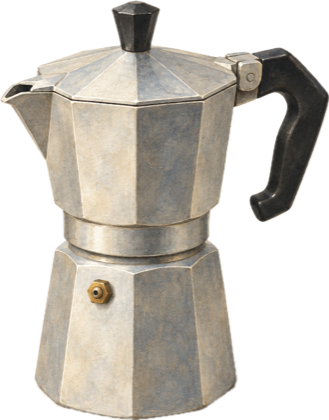
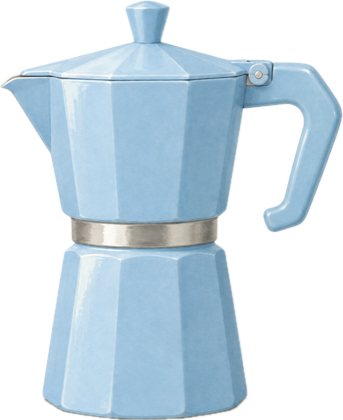
Homepage scene polish and stat consistency fixes
- Scene: blue moka pot whose lid opens with steam and a cup on hover,
  pencils that jiggle, vintage Bali/Japan/Dubai stamps that fan out,
  new lighter Pachinko cover, top 6 books of 2026, smaller photo tiles
  and circles, adjusted sizes and placement.
- Klub and Spottabl: note that "today" figures are company figures.
- Challans: launch line includes the Rs 2,36,697 settled figure.
- Wells Fargo row marked as shipped and measured.

diff --git a/src/pages/Home.tsx b/src/pages/Home.tsx
@@ -22,8 +22,8 @@ const allWork: WorkRowData[] = [
     owned: 'Owned the financial health surfaces end to end, not the scoring behind them.',
     platform: 'Web · Enterprise',
     domain: 'Fintech',
-    outcome: 'A redesign approved and queued for release',
-    evidence: 'Approved',
+    outcome: 'Section usage up 1.2% after launch',
+    evidence: 'Shipped · measured',
     to: '/work/wells-fargo-financial-health',
     thumb: { src: '/assets/thumbs/wf-financial-health.jpg', kind: 'web', tint: ['#F7E6E1', '#EFD3CA'] },
     tags: ['Complex data'],
@@ -111,18 +111,108 @@ const BAKE_PHOTOS = [
   { src: '/assets/bake-muffins.jpg', alt: 'Strawberry cream cheese muffins with fresh strawberries' },
 ];
 
-// Books: a small stack of 2026 reads; the full list opens on hover or tap.
+// Travel: two vintage-style postage stamps from trips, tucked above the bowl.
+const STAMPS = [
+  { place: 'Bali', src: '/assets/scene/stamp-bali.png', cls: 'otc-stamp-a' },
+  { place: 'Japan', src: '/assets/scene/stamp-japan.png', cls: 'otc-stamp-b' },
+  { place: 'Dubai', src: '/assets/scene/stamp-dubai.png', cls: 'otc-stamp-c' },
+];
+
+function TravelStamps() {
+  return (
+    <div className="otc-stamps" aria-label="Travel stamps from Bali, Japan and Dubai" role="img">
+      {STAMPS.map((t) => (
+        <img key={t.place} className={`otc-stamp ${t.cls}`} src={t.src} alt="" />
+      ))}
+    </div>
+  );
+}
+
+// Design tools: app tiles fan out of the pencil cup on hover or tap, like the photo tiles.
+const TOOL_TILES = [
+  {
+    name: 'Figma',
+    icon: (
+      <svg viewBox="0 0 38 57" width="20" height="30" aria-hidden="true">
+        <path d="M19 28.5a9.5 9.5 0 1 1 19 0 9.5 9.5 0 0 1-19 0z" fill="#1ABCFE" />
+        <path d="M0 47.5A9.5 9.5 0 0 1 9.5 38H19v9.5a9.5 9.5 0 1 1-19 0z" fill="#0ACF83" />
+        <path d="M19 0v19h9.5a9.5 9.5 0 1 0 0-19H19z" fill="#FF7262" />
+        <path d="M0 9.5A9.5 9.5 0 0 0 9.5 19H19V0H9.5A9.5 9.5 0 0 0 0 9.5z" fill="#F24E1E" />
+        <path d="M0 28.5A9.5 9.5 0 0 0 9.5 38H19V19H9.5A9.5 9.5 0 0 0 0 28.5z" fill="#A259FF" />
+      </svg>
+    ),
+  },
+  {
+    name: 'Claude',
+    icon: (
+      <svg viewBox="-12 -12 24 24" width="30" height="30" aria-hidden="true">
+        {Array.from({ length: 12 }, (_, i) => (
+          <line key={i} x1="0" y1="0" x2="0" y2={i % 2 ? -8.5 : -10.5} stroke="#D97757" strokeWidth="2.4" strokeLinecap="round" transform={`rotate(${i * 30})`} />
+        ))}
+      </svg>
+    ),
+  },
+  {
+    name: 'Notion',
+    icon: (
+      <svg viewBox="0 0 28 28" width="28" height="28" aria-hidden="true">
+        <rect x="2" y="2" width="24" height="24" rx="4" fill="#FFFFFF" stroke="#171A18" strokeWidth="2" />
+        <text x="14" y="20.5" textAnchor="middle" fontFamily="Georgia, serif" fontWeight="700" fontSize="16" fill="#171A18">N</text>
+      </svg>
+    ),
+  },
+];
+
+function DesignTools() {
+  const [open, setOpen] = useState(false);
+  return (
+    <button
+      type="button"
+      className={`otc-toolsbtn${open ? ' is-open' : ''}`}
+      aria-expanded={open}
+      aria-label={`Design tools I use: ${TOOL_TILES.map((t) => t.name).join(', ')}`}
+      onClick={() => setOpen((o) => !o)}
+      onBlur={() => setOpen(false)}
+    >
+      <span className="tool-tiles" aria-hidden="true">
+        {TOOL_TILES.map((t) => (
+          <span key={t.name} className="tool-tile">
+            <span className="tool-tile-icon">{t.icon}</span>
+            <span className="tool-tile-name">{t.name}</span>
+          </span>
+        ))}
+      </span>
+      <span className="otc-obj tools-art">
+        <img className="tools-base" src="/assets/scene/tools.png" alt="" />
+        <img className="tools-pencils" src="/assets/scene/tools.png" alt="" />
+      </span>
+    </button>
+  );
+}
+
+// Moka pot: on hover the lid flips open, steam rises and a cup slides in beside it.
+function MokaPot() {
+  return (
+    <span className="otc-mokabox" aria-hidden="true">
+      <img className="otc-cup" src="/assets/scene/cup.png" alt="" />
+      <span className="otc-obj otc-moka">
+        <img className="moka-base" src="/assets/scene/moka.png" alt="" />
+        <span className="moka-mouth" />
+        <img className="moka-lid" src="/assets/scene/moka.png" alt="" />
+        <span className="moka-steam"><i /><i /><i /></span>
+      </span>
+    </span>
+  );
+}
+
+// Books: a small stack of 2026 reads; the top six open on hover or tap.
 const BOOKS_ALL = [
   'Pachinko',
   'Butter',
   'The Kamogawa Food Detectives',
   'The Silent Patient',
-  'Verity',
-  'The Crooked House',
   'The Dust Child',
   'Then She Was Gone',
-  'The Only One Left',
-  'The September Child',
 ];
 
 function BookStack() {
@@ -141,7 +231,7 @@ function BookStack() {
         <img className="otc-book otc-book-pachinko" src="/assets/scene/pachinko.png" alt="" />
       </span>
       <span className="otc-shelf" aria-hidden="true">
-        <span className="otc-shelf-title">Read in 2026</span>
+        <span className="otc-shelf-title">Top 6 of 2026 so far</span>
         {BOOKS_ALL.map((t) => (
           <span key={t} className="otc-shelf-item">{t}</span>
         ))}
@@ -157,6 +247,9 @@ function IllustrationCard() {
       className="illo-card"
       style={{
         minWidth: 0,
+        width: '100%',
+        maxWidth: 400,
+        justifySelf: 'end',
         position: 'relative',
         zIndex: 2,
       }}
@@ -167,10 +260,12 @@ function IllustrationCard() {
       <div className="otc-stage">
         {/* Layout traced from the Figma scene: every position is a % of the stage, so it scales as one piece. */}
         <span className="otc-moon" aria-hidden="true" />
+        <span className="otc-moon otc-moon-lilac" aria-hidden="true" />
         <img className="otc-pill" src="/assets/khubi-pill.jpg" alt="Khubi in a cap, smiling, by the lake with Mount Fuji and cherry blossoms behind" />
         <BookStack />
-        <img className="otc-obj otc-moka" src="/assets/scene/moka.png" alt="" aria-hidden="true" />
-        <img className="otc-obj otc-tools" src="/assets/scene/tools.png" alt="" aria-hidden="true" />
+        <MokaPot />
+        <DesignTools />
+        <TravelStamps />
         <a
           className="bake-link otc-bake"
           href="https://www.instagram.com/pixiedust.bakery/"
@@ -190,7 +285,7 @@ function IllustrationCard() {
             style={{
               position: 'absolute',
               left: 10,
-              top: 'calc(100% + 104px)',
+              top: 'calc(100% + 84px)',
               zIndex: 4,
               width: 190,
               padding: '10px 12px',
@@ -244,23 +339,99 @@ function IllustrationCard() {
       <style>{`
         .otc-stage { position: relative; aspect-ratio: 3963 / 4718; margin-top: 14px; }
         /* Striped circle tucked behind the photo so only a crescent shows past its top-left edge. */
+        /* Striped circles tucked behind the photo so only a crescent shows: red top-left, lilac bottom-right. */
         .otc-moon {
-          position: absolute; left: 5.5%; top: -4.5%; width: 73.15%; aspect-ratio: 1; border-radius: 50%; z-index: 0;
-          background-image: repeating-linear-gradient(58deg, rgba(190,66,41,0.55) 0 7px, rgba(190,66,41,0) 7px 17px);
+          position: absolute; left: 4%; top: -3%; width: 46%; aspect-ratio: 1; border-radius: 50%; z-index: 0;
+          background-image: repeating-linear-gradient(58deg, rgba(190,66,41,0.55) 0 6px, rgba(190,66,41,0) 6px 15px);
+        }
+        .otc-moon-lilac {
+          left: auto; top: auto; right: 4%; bottom: -3%;
+          background-image: repeating-linear-gradient(58deg, rgba(139,108,207,0.6) 0 6px, rgba(139,108,207,0) 6px 15px);
         }
         .otc-pill { position: absolute; left: 13.93%; top: 0; width: 73.15%; height: 100%; object-fit: cover; border-radius: 9999px; z-index: 1; display: block; }
         .otc-obj { position: absolute; display: block; height: auto; filter: drop-shadow(0 10px 12px rgba(23,26,24,0.16)); transition: transform 300ms cubic-bezier(.2,.8,.2,1); }
         .otc-garden { position: absolute; left: 77.54%; top: 35.44%; width: 17.84%; z-index: 2; }
-        .otc-books { position: absolute; left: 51%; top: 1.36%; width: 24.47%; height: 18.9%; z-index: 3; margin: 0; padding: 0; border: 0; background: none; cursor: pointer; text-align: left; }
-        .otc-bake { position: absolute; left: 12.52%; top: 79.86%; width: 21.25%; z-index: 4; }
-        .otc-moka { left: 4.52%; top: 17.51%; width: 17.84%; z-index: 5; }
-        .otc-tools { left: 75.65%; top: 71.2%; width: 19.56%; z-index: 6; }
+        .otc-books { position: absolute; left: 56%; top: -5.5%; width: 24.47%; height: 18.9%; z-index: 3; margin: 0; padding: 0; border: 0; background: none; cursor: pointer; text-align: left; }
+        .otc-bake { position: absolute; left: 21%; top: 84.5%; width: 21.25%; z-index: 4; }
+        .otc-mokabox { position: absolute; left: 4.52%; top: 13.5%; width: 17.84%; z-index: 5; display: block; }
+        .otc-mokabox .otc-moka { position: relative; width: 100%; transform: scaleX(-1); }
+        .otc-moka img, .tools-art img { display: block; width: 100%; height: auto; }
+        /* The lid is the same picture clipped to its top, hinged by the handle. */
+        .moka-base { clip-path: polygon(0 0, 10% 0, 10% 20%, 71% 20%, 71% 0, 100% 0, 100% 100%, 0 100%); }
+        .moka-lid { position: absolute; inset: 0; clip-path: polygon(10% 0, 71% 0, 71% 20%, 10% 20%); transform-origin: 74% 17%; transition: transform 480ms cubic-bezier(.3,1.4,.5,1); }
+        .moka-mouth { position: absolute; left: 14%; top: 17%; width: 54%; height: 6%; border-radius: 50%; background: #2B2420; opacity: 0; transition: opacity 200ms ease; }
+        .otc-mokabox:hover .moka-lid { transform: translateY(-6%) rotate(70deg); }
+        .otc-mokabox:hover .moka-mouth { opacity: 1; }
+        .moka-steam { position: absolute; left: 24%; top: -14%; width: 40%; height: 32%; pointer-events: none; }
+        .moka-steam i {
+          position: absolute; bottom: 0; width: 22%; height: 80%; border-radius: 50%;
+          border-left: 2px solid rgba(110,100,92,0.5); filter: blur(0.5px); opacity: 0;
+        }
+        .moka-steam i:nth-child(1) { left: 10%; }
+        .moka-steam i:nth-child(2) { left: 40%; height: 100%; }
+        .moka-steam i:nth-child(3) { left: 70%; }
+        .otc-mokabox:hover .moka-steam i { animation: moka-steam 1.8s ease-out 320ms infinite; }
+        .otc-mokabox:hover .moka-steam i:nth-child(2) { animation-delay: 700ms; }
+        .otc-mokabox:hover .moka-steam i:nth-child(3) { animation-delay: 1050ms; }
+        @keyframes moka-steam {
+          0% { opacity: 0; transform: translateY(20%) scaleY(0.6); }
+          30% { opacity: 1; }
+          100% { opacity: 0; transform: translate(8%, -55%) scaleY(1.1); }
+        }
+        .otc-cup { position: absolute; left: 72%; top: 64%; width: 62%; opacity: 0; transform: translateX(40%) rotate(8deg); transition: opacity 220ms ease, transform 360ms cubic-bezier(.2,.8,.2,1); filter: drop-shadow(0 8px 10px rgba(23,26,24,0.18)); z-index: 1; }
+        .otc-mokabox:hover .otc-cup { opacity: 1; transform: none; }
+        .otc-toolsbtn { position: absolute; left: 75.65%; top: 71.2%; width: 19.56%; z-index: 6; margin: 0; padding: 0; border: 0; background: none; cursor: pointer; }
+        .otc-toolsbtn .otc-obj { position: relative; width: 100%; }
+        /* Pencils are the same picture clipped to what sticks out of the cup, so they can jiggle. */
+        .tools-base { clip-path: polygon(52% 0, 100% 0, 100% 100%, 0 100%, 0 40%, 41% 40%, 41% 23%, 52% 23%); }
+        .tools-pencils { position: absolute; inset: 0; clip-path: polygon(0 0, 52% 0, 52% 23%, 41% 23%, 41% 40%, 0 40%); transform-origin: 26% 42%; }
+        .otc-toolsbtn:hover .tools-art, .otc-toolsbtn:focus-visible .tools-art { transform: translateY(-4px) rotate(-2deg); }
+        .otc-toolsbtn:hover .tools-pencils, .otc-toolsbtn:focus-visible .tools-pencils { animation: pencil-jiggle 700ms ease-in-out; }
+        @keyframes pencil-jiggle {
+          0%, 100% { transform: none; }
+          25% { transform: rotate(-5deg); }
+          50% { transform: rotate(4deg); }
+          75% { transform: rotate(-2deg); }
+        }
+        .tool-tiles { position: absolute; right: 10%; bottom: calc(100% + 4px); display: flex; pointer-events: none; }
+        .tool-tile {
+          display: flex; flex-direction: column; align-items: center; justify-content: center; gap: 4px;
+          width: 58px; height: 64px; background: #FFFFFF; border-radius: 12px;
+          box-shadow: 0 14px 22px -14px rgba(23,26,24,0.5), 0 0 0 1px rgba(23,26,24,0.06);
+          opacity: 0; transform: translateY(8px); transition: opacity 200ms ease, transform 280ms cubic-bezier(.2,.8,.2,1);
+        }
+        .tool-tile + .tool-tile { margin-left: -10px; }
+        .tool-tile-icon { display: flex; height: 30px; align-items: center; }
+        .tool-tile-name { font-family: var(--font-mono); font-size: 8.5px; letter-spacing: 0.06em; color: var(--secondary); }
+        .otc-toolsbtn:hover .tool-tile, .otc-toolsbtn:focus-visible .tool-tile, .otc-toolsbtn.is-open .tool-tile { opacity: 1; }
+        .otc-toolsbtn:hover .tool-tile:nth-child(1), .otc-toolsbtn:focus-visible .tool-tile:nth-child(1), .otc-toolsbtn.is-open .tool-tile:nth-child(1) { transform: translateY(4px) rotate(-9deg); }
+        .otc-toolsbtn:hover .tool-tile:nth-child(2), .otc-toolsbtn:focus-visible .tool-tile:nth-child(2), .otc-toolsbtn.is-open .tool-tile:nth-child(2) { transform: translateY(-6px) rotate(-2deg); transition-delay: 40ms; }
+        .otc-toolsbtn:hover .tool-tile:nth-child(3), .otc-toolsbtn:focus-visible .tool-tile:nth-child(3), .otc-toolsbtn.is-open .tool-tile:nth-child(3) { transform: translateY(2px) rotate(8deg); transition-delay: 80ms; }
+        .otc-toolsbtn:hover, .otc-toolsbtn:focus-visible, .otc-toolsbtn.is-open, .otc-mokabox:hover { z-index: 10; }
+        .otc-stamps { position: absolute; left: -1%; top: 50%; width: 36%; aspect-ratio: 1.4; z-index: 3; cursor: default; }
+        .otc-stamps:hover { z-index: 10; }
+        .otc-stamp {
+          position: absolute; width: 32%; height: auto; display: block;
+          filter: drop-shadow(0 6px 8px rgba(23,26,24,0.18));
+          transition: transform 320ms cubic-bezier(.2,.8,.2,1), filter 320ms ease;
+        }
+        .otc-stamp-a { left: 10%; top: 26%; transform: rotate(-8deg); }
+        .otc-stamp-b { left: 32%; top: 10%; transform: rotate(2deg); z-index: 2; }
+        .otc-stamp-c { left: 54%; top: 26%; transform: rotate(9deg); }
+        /* Hover: the stamps lift and fan apart, like peeling them off a postcard. */
+        .otc-stamps:hover .otc-stamp { filter: drop-shadow(0 14px 14px rgba(23,26,24,0.22)); }
+        .otc-stamps:hover .otc-stamp-a { transform: translate(-16%, -4%) rotate(-15deg) scale(1.06); }
+        .otc-stamps:hover .otc-stamp-b { transform: translateY(-14%) rotate(0deg) scale(1.08); }
+        .otc-stamps:hover .otc-stamp-c { transform: translate(16%, -4%) rotate(15deg) scale(1.06); }
+        /* Objects drawn 15% larger than traced, each growing from its own centre so the layout holds. */
+        .otc-mokabox, .otc-books, .otc-bake { scale: 1.15; }
+        .otc-toolsbtn, .otc-garden { scale: 1.3; }
+        .tool-tiles { scale: 0.77; transform-origin: bottom right; }
+        .otc-shelf { scale: 0.87; transform-origin: top right; }
         .otc-bake .bake-whisk, .otc-garden .garden-plant { position: static; width: 100%; }
-        .otc-moka:hover { transform: rotate(-4deg) translateY(-4px); }
-        .otc-tools:hover { transform: rotate(3deg) translateY(-4px); }
         .otc-book-pile { position: absolute; inset: 0; display: block; }
         .otc-book { position: absolute; top: 0; display: block; height: auto; filter: drop-shadow(0 10px 12px rgba(23,26,24,0.18)); transition: transform 300ms cubic-bezier(.2,.8,.2,1); }
-        .otc-book-pachinko { left: 0; width: 55.3%; }
+        .otc-book-pachinko { left: -4%; width: 60%; }
         .otc-book-silent { left: 19.6%; width: 80.4%; top: 1.6%; }
         .otc-books:hover .otc-book-pachinko, .otc-books.is-open .otc-book-pachinko { transform: rotate(-4deg) translateY(-6px); }
         .otc-books:hover .otc-book-silent, .otc-books.is-open .otc-book-silent { transform: rotate(4deg) translateX(6px); }
@@ -280,7 +451,7 @@ function IllustrationCard() {
           color: var(--muted); margin-bottom: 4px;
         }
         .otc-shelf-item { font-family: var(--font-serif); font-size: 14px; line-height: 1.35; color: var(--ink); }
-        @media (prefers-reduced-motion: reduce) { .otc-book, .otc-shelf, .otc-obj { transition: none; } }
+        @media (prefers-reduced-motion: reduce) { .otc-book, .otc-shelf, .otc-obj, .tool-tile, .otc-cup, .otc-stamp, .moka-lid { transition: none !important; } .moka-steam i, .tools-pencils { animation: none !important; } }
         .bake-whisk { transform-origin: 50% 85%; transition: transform 300ms ease; }
         .bake-caption { display: grid; }
         .bake-cap, .bake-handle { grid-area: 1 / 1; transition: opacity 200ms ease, transform 200ms ease; }
@@ -309,12 +480,12 @@ function IllustrationCard() {
         @keyframes garden-dig { from { transform: rotate(-10deg); } to { transform: rotate(8deg) translateY(-3px); } }
         .garden-photos { position: absolute; right: -6px; top: calc(100% + 12px); z-index: 3; display: flex; pointer-events: none; }
         .polaroid {
-          display: block; box-sizing: content-box; width: 84px; height: 84px; object-fit: cover;
-          padding: 5px 5px 16px; background: #FFFFFF; border-radius: 2px;
+          display: block; box-sizing: content-box; width: 64px; height: 64px; object-fit: cover;
+          padding: 4px 4px 12px; background: #FFFFFF; border-radius: 2px;
           box-shadow: 0 14px 22px -14px rgba(23,26,24,0.5), 0 0 0 1px rgba(23,26,24,0.06);
           opacity: 0; transform: translateY(-8px); transition: opacity 200ms ease, transform 280ms cubic-bezier(.2,.8,.2,1);
         }
-        .polaroid + .polaroid { margin-left: -24px; }
+        .polaroid + .polaroid { margin-left: -18px; }
         .bake-photos { position: absolute; left: -6px; top: calc(100% + 12px); z-index: 3; display: flex; pointer-events: none; }
         .bake-link:hover .bake-photo, .bake-link:focus-visible .bake-photo { opacity: 1; }
         .bake-link:hover .bake-photo:nth-child(1), .bake-link:focus-visible .bake-photo:nth-child(1) { transform: translateY(4px) rotate(-10deg); }
@@ -495,7 +666,7 @@ export default function Home() {
             display: 'grid',
             gridTemplateColumns: 'minmax(0, 1.15fr) minmax(300px, 0.85fr)',
             gap: '48px 64px',
-            alignItems: 'start',
+            alignItems: 'center',
           }}
         >
           <div style={{ minWidth: 0 }}>

diff --git a/src/components/CaseStudyParts.tsx b/src/components/CaseStudyParts.tsx
@@ -23,7 +23,7 @@ export type HeadStat = { value: string; label: string };
 export type HeadFact = { label: string; value: string };
 
 /** Stats row plus the Role / Team / Timeline / Platform strip, full width under the headline. */
-export function HeaderStatsAndFacts({ stats, facts }: { stats: HeadStat[]; facts: HeadFact[] }) {
+export function HeaderStatsAndFacts({ stats, facts, note }: { stats: HeadStat[]; facts: HeadFact[]; note?: string }) {
   return (
     <div style={{ marginTop: 48 }}>
       <div className="cs-head-grid">
@@ -34,6 +34,9 @@ export function HeaderStatsAndFacts({ stats, facts }: { stats: HeadStat[]; facts
           </div>
         ))}
       </div>
+      {note && (
+        <div style={{ fontFamily: 'var(--font-ui)', fontSize: 13, fontWeight: 600, letterSpacing: '0.05em', color: 'var(--muted)', marginTop: 16 }}>{note}</div>
+      )}
       <dl className="cs-head-grid" style={{ margin: '40px 0 0 0', padding: '18px 0', borderTop: '1px solid var(--hairline)', borderBottom: '1px solid var(--hairline)' }}>
         {facts.map((m) => (
           <div key={m.label}>

diff --git a/src/case-studies/Klub.tsx b/src/case-studies/Klub.tsx
@@ -307,7 +307,7 @@ export default function Klub() {
       summary="Klub's syndicates were already happening, entirely offline. I brought them into the existing patrons app without unsettling the patrons already using it."
       meta={[]}
       headerAside={<HeaderDevice src="/assets/thumbs/klub.jpg" kind="web" alt="The Syndicates discovery page" />}
-      headerFooter={<HeaderStatsAndFacts stats={headStats} facts={headFacts} />}
+      headerFooter={<HeaderStatsAndFacts stats={headStats} facts={headFacts} note="“Today” figures are company figures, not results of this project." />}
       hero={<OverviewSummary items={summaryItems} context={contextFacts} />}
       overview={{ id: "kl-overview", number: '01', title: 'Overview' }}
       railExtra={<RailStats stats={headStats} />}

diff --git a/src/case-studies/Spottabl.tsx b/src/case-studies/Spottabl.tsx
@@ -336,7 +336,7 @@ export default function Spottabl() {
       summary="Spottabl connects startups that are hiring with specialist recruiters. I designed one pipeline that the company, the recruiter and the candidate all read."
       meta={[]}
       headerAside={<HeaderDevice src="/assets/thumbs/spottabl.jpg" kind="web" alt="The My jobs screen" />}
-      headerFooter={<HeaderStatsAndFacts stats={headStats} facts={headFacts} />}
+      headerFooter={<HeaderStatsAndFacts stats={headStats} facts={headFacts} note="“Today” figures are company figures, not results of this project." />}
       hero={<OverviewSummary items={summaryItems} context={contextFacts} />}
       overview={{ id: "sp-overview", number: '01', title: 'Overview' }}
       railExtra={<RailStats stats={headStats} />}

diff --git a/src/case-studies/Cars24Challans.tsx b/src/case-studies/Cars24Challans.tsx
@@ -248,7 +248,7 @@ const sections: CSSection[] = [
             </div>
           </div>
           <div style={{ fontSize: 15, lineHeight: 1.6, color: 'var(--ink)', marginTop: 16 }}>
-            My launch numbers: 16,193 visitors and 4,422 challans paid in the first 8 days.
+            My launch numbers: 16,193 visitors and 4,422 challans paid in the first 8 days, and ₹2,36,697 in challans settled.
           </div>
         </div>
       </>
